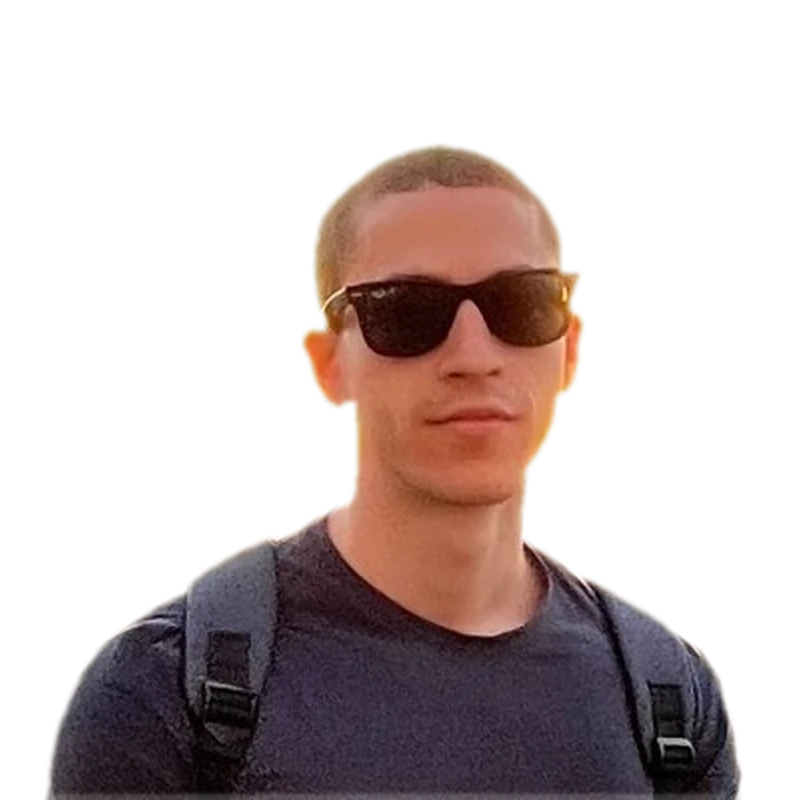
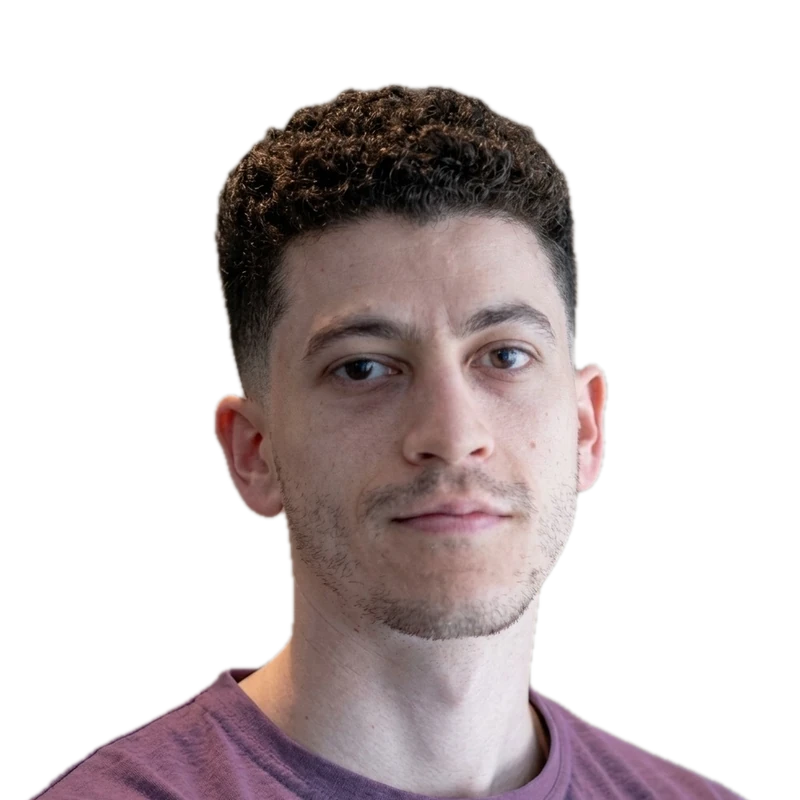
feat(conf): Sebastián's new photo, abstract and role
His new portrait replaces the 400px one, on the site and in the stage
cutout. The abstract is the one he sent, word for word, and his role is
now "Cybersecurity Specialist, Qubika". The agenda row says "defensa en
profundidad" like the new abstract, instead of "defensas en vivo".

diff --git a/src/app/conf/talks.ts b/src/app/conf/talks.ts
@@ -76,8 +76,8 @@ export const TALKS: Talk[] = [
     end: "20:25",
     title: "Retrieval Augmented Gaslight",
     description: [
-      "Un chatbot de soporte que anda bien, un solo documento envenenado en la base vectorial, y de golpe manda a los usuarios a un link de phishing o defiende una mentira con total seguridad. No se hackea el modelo ni se toca una línea de código: solo se ensucian los datos.",
-      "Sobre un stack RAG real y open source (ChromaDB, FastAPI y Ollama), la charla recorre una escalera de ataques mapeada al OWASP LLM Top 10, cómo probarlos de forma automatizable en un pipeline de CI y cinco capas de defensa que se activan en vivo. Te vas con una metodología replicable y el repositorio con todo el código.",
+      "Usar RAG en producción para que una IA responda con datos internos de la organización o de un dominio específico como fuente de verdad es moneda corriente. Pero investigaciones muestran que alcanza con un solo documento envenenado (un PDF, un e-mail, un ticket) para que la IA se desvíe en sus respuestas o acciones: desde mandar a un usuario a un enlace de phishing hasta afirmar con total seguridad algo falso. Como builder o tester: ¿Lo ves venir?",
+      "Acá estudiamos una base de datos vectorial con su respectiva aplicación (ChromaDB+FastAPI+Ollama), la envenenamos, y mostramos una manera de probar y automatizar: de una aserción simple a un corpus de ataques y defensa en profundidad, todo con herramientas open-source. Te quedás con la visión de estas amenazas, una metodología y un repositorio para investigar (y, según tu caso, aplicar). No es una charla de AI hacking, sino de tomar parte de esa visión para la construcción y automatización de pruebas/defensas. Basado en OWASP LLM Top 10 e investigaciones como PoisonedRAG, PoisonArena y GASLITE.",
     ],
     speakers: [
       {
@@ -85,7 +85,7 @@ export const TALKS: Talk[] = [
         picture: "/images/conf/speakers/sebastian-passaro.webp",
         cutout: "/images/conf/speakers/sebastian-passaro-cutout.webp",
         shape: "triangle",
-        role: "Chapter Leader, OWASP Uruguay",
+        role: "Cybersecurity Specialist, Qubika",
         linkedin: "https://www.linkedin.com/in/sebastian-passaro/",
       },
     ],

diff --git a/src/app/conf/components/Program.tsx b/src/app/conf/components/Program.tsx
@@ -280,7 +280,7 @@ const SESSIONS: Session[] = [
       <>
         Cierra la tarde <Hl>Sebastián Passaro</Hl>, de <Hl>OWASP Uruguay</Hl>, con un chatbot RAG que anda bien hasta
         que <Hl yellow>un solo documento envenenado</Hl> lo da vuelta. Cuarenta minutos de ataques, tests automatizables
-        y defensas en vivo, con el repositorio completo para que sigas investigando.
+        y defensa en profundidad, con el repositorio completo para que sigas investigando.
       </>
     ),
     Icon: MicVocal,
